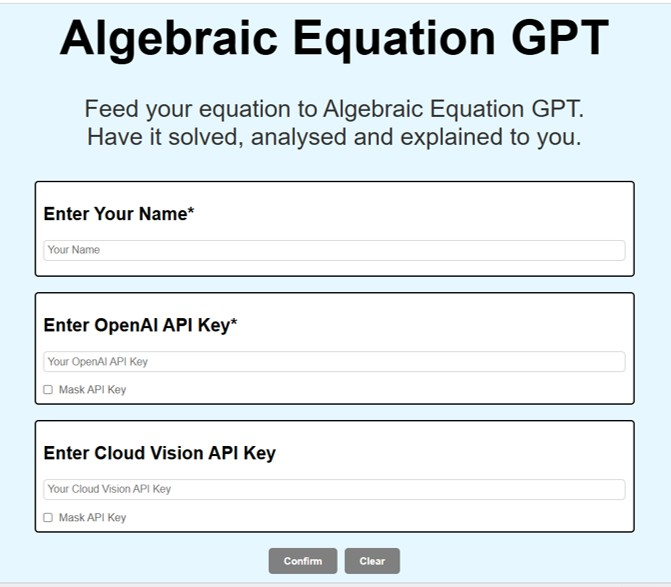
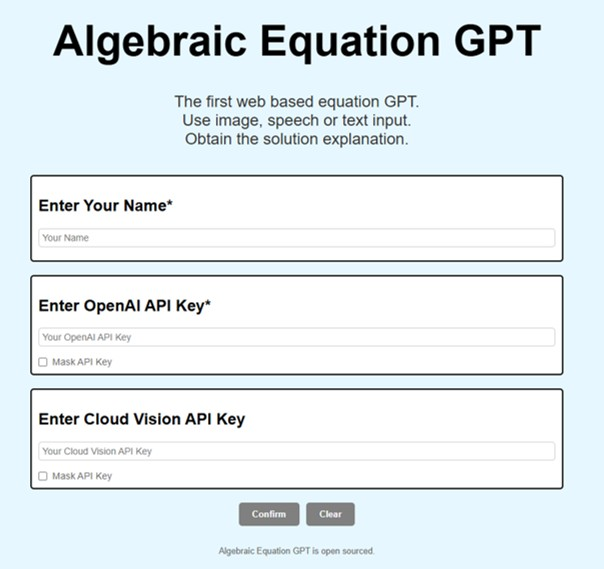
Update UI
Updated index.html and img

Changed region(s): [[0.0, 0.2988, 1.0, 1.0], [0.1192, 0.1494, 0.8642, 0.2689], [0.0894, 0.0299, 0.9238, 0.1195]]

diff --git a/index.html b/index.html
@@ -11,9 +11,9 @@
     <div id="initialInterface" class="container">
         <div class="title">Algebraic Equation GPT</div>
         <div class="subtitle">
-            The first web based Equation GPT.<br>
-            Input equation by image, speech or text.<br>
-            Have it analysed and explained to you.
+            The first web based equation GPT.<br>
+            Use image, speech or text input.<br>
+            Obtain the solution explanation.
         </div>
         <div class="window">
             <h2>Enter Your Name*</h2>
